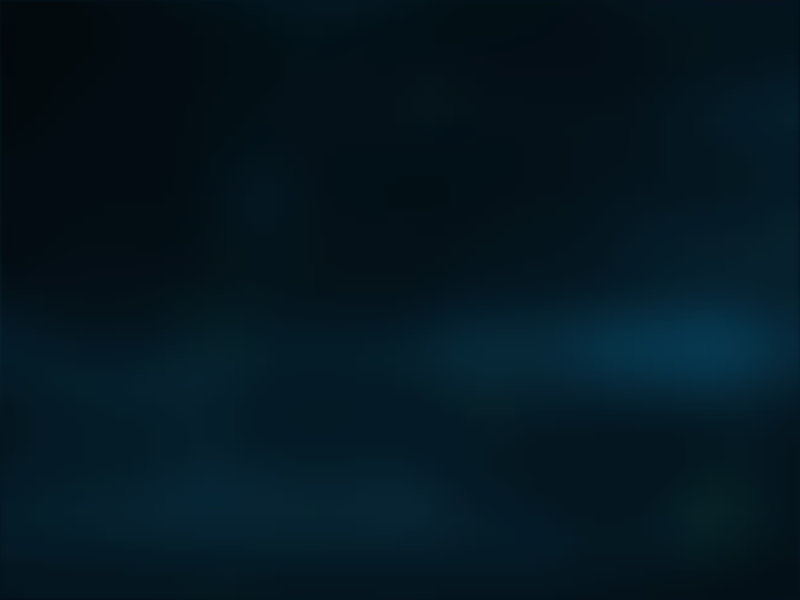
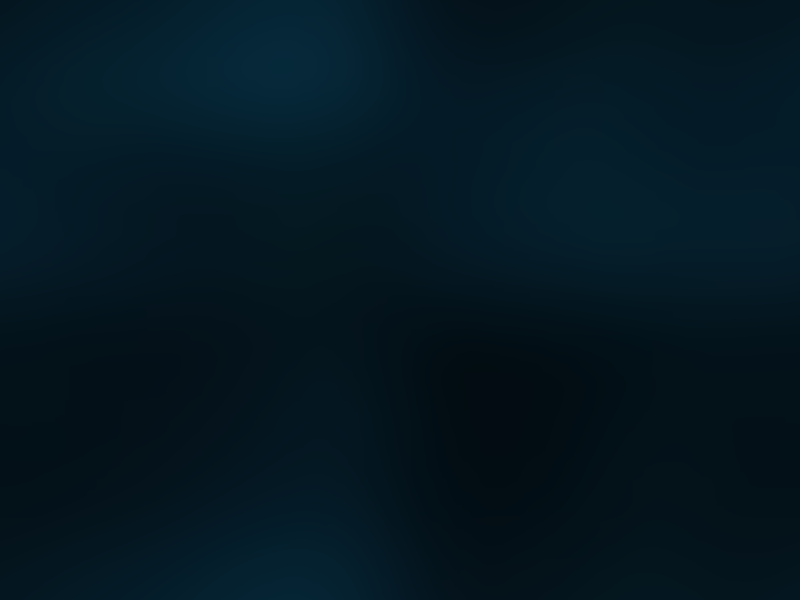
Implemented mails_list in admin panel

Changed region(s): [[0.0, 0.0, 0.4688, 0.27], [0.5312, 0.48, 1.0, 0.69]]

diff --git a/html/admin/css/fhq.admin.css b/html/admin/css/fhq.admin.css
@@ -9,7 +9,7 @@ body {
 	background-color: #041119;
 	background-image: url("../img/background.png");
 	background-position: center;
-	background-repeat: no-repeat;
+	background-repeat: repeat;
 	background-size: 100% 100%;
 	color: #3c8dbc;
 }
@@ -39,12 +39,7 @@ body {
 .fixed .right-side {
   padding-top: 50px;
 }
-@media (max-width: 767px) {
-  .fixed .content-wrapper,
-  .fixed .right-side {
-    padding-top: 100px;
-  }
-}
+
 .fixed.layout-boxed .wrapper {
   max-width: 100%;
 }
@@ -75,42 +70,14 @@ body {
   left: 0;
   padding-top: 50px;
   min-height: 100%;
-  width: 230px;
+  width: 130px;
   z-index: 810;
   -webkit-transition: -webkit-transform 0.3s ease-in-out, width 0.3s ease-in-out;
   -moz-transition: -moz-transform 0.3s ease-in-out, width 0.3s ease-in-out;
   -o-transition: -o-transform 0.3s ease-in-out, width 0.3s ease-in-out;
   transition: transform 0.3s ease-in-out, width 0.3s ease-in-out;
 }
-@media (max-width: 767px) {
-  .main-sidebar {
-    padding-top: 100px;
-  }
-}
-@media (max-width: 767px) {
-  .main-sidebar {
-    -webkit-transform: translate(-230px, 0);
-    -ms-transform: translate(-230px, 0);
-    -o-transform: translate(-230px, 0);
-    transform: translate(-230px, 0);
-  }
-}
-@media (min-width: 768px) {
-  .sidebar-collapse .main-sidebar {
-    -webkit-transform: translate(-230px, 0);
-    -ms-transform: translate(-230px, 0);
-    -o-transform: translate(-230px, 0);
-    transform: translate(-230px, 0);
-  }
-}
-@media (max-width: 767px) {
-  .sidebar-open .main-sidebar {
-    -webkit-transform: translate(0, 0);
-    -ms-transform: translate(0, 0);
-    -o-transform: translate(0, 0);
-    transform: translate(0, 0);
-  }
-}
+
 .sidebar {
   padding-bottom: 10px;
 }
@@ -154,9 +121,9 @@ a:focus {
  * ----------------------
  */
 .main-header {
-  position: relative;
-  max-height: 100px;
-  z-index: 1030;
+	position: fixed;
+	max-height: 100px;
+	z-index: 1030;
 }
 .main-header .navbar {
   -webkit-transition: margin-left 0.3s ease-in-out;
@@ -194,25 +161,7 @@ a:focus {
 .main-header .navbar-right {
   float: right;
 }
-@media (max-width: 991px) {
-  .main-header .navbar-custom-menu a,
-  .main-header .navbar-right a {
-    color: inherit;
-    background: transparent;
-  }
-}
-@media (max-width: 767px) {
-  .main-header .navbar-right {
-    float: none;
-  }
-  .navbar-collapse .main-header .navbar-right {
-    margin: 7.5px -15px;
-  }
-  .main-header .navbar-right > li {
-    color: inherit;
-    border: 0;
-  }
-}
+
 .main-header .sidebar-toggle {
   float: left;
   background-color: transparent;
@@ -255,7 +204,7 @@ a:focus {
   font-size: 20px;
   line-height: 50px;
   text-align: center;
-  width: 230px;
+  width: 130px;
   font-family: "Helvetica Neue", Helvetica, Arial, sans-serif;
   padding: 0 15px;
   font-weight: 300;
@@ -305,67 +254,6 @@ a:focus {
 }
 .content-header > .breadcrumb > li + li:before {
   content: '>\00a0';
-}
-@media (max-width: 991px) {
-  .content-header > .breadcrumb {
-    position: relative;
-    margin-top: 5px;
-    top: 0;
-    right: 0;
-    float: none;
-    background: #d2d6de;
-    padding-left: 10px;
-  }
-  .content-header > .breadcrumb li:before {
-    color: #97a0b3;
-  }
-}
-.navbar-toggle {
-  color: #fff;
-  border: 0;
-  margin: 0;
-  padding: 15px 15px;
-}
-@media (max-width: 991px) {
-  .navbar-custom-menu .navbar-nav > li {
-    float: left;
-  }
-  .navbar-custom-menu .navbar-nav {
-    margin: 0;
-    float: left;
-  }
-  .navbar-custom-menu .navbar-nav > li > a {
-    padding-top: 15px;
-    padding-bottom: 15px;
-    line-height: 20px;
-  }
-}
-@media (max-width: 767px) {
-  .main-header {
-    position: relative;
-  }
-  .main-header .logo,
-  .main-header .navbar {
-    width: 100%;
-    float: none;
-  }
-  .main-header .navbar {
-    margin: 0;
-  }
-  .main-header .navbar-custom-menu {
-    float: right;
-  }
-}
-@media (max-width: 991px) {
-  .navbar-collapse.pull-left {
-    float: none !important;
-  }
-  .navbar-collapse.pull-left + .navbar-custom-menu {
-    display: block;
-    position: absolute;
-    top: 0;
-    right: 40px;
-  }
 }
 
 
@@ -564,33 +452,12 @@ a:focus {
   -moz-transition: -moz-transform 0.3s ease-in-out, margin 0.3s ease-in-out;
   -o-transition: -o-transform 0.3s ease-in-out, margin 0.3s ease-in-out;
   transition: transform 0.3s ease-in-out, margin 0.3s ease-in-out;
-  margin-left: 230px;
+  margin-left: 130px;
   z-index: 820;
 }
 .layout-top-nav .content-wrapper,
 .layout-top-nav .main-footer {
   margin-left: 0;
-}
-@media (max-width: 767px) {
-  .content-wrapper,
-  .main-footer {
-    margin-left: 0;
-  }
-}
-@media (min-width: 768px) {
-  .sidebar-collapse .content-wrapper,
-  .sidebar-collapse .main-footer {
-    margin-left: 0;
-  }
-}
-@media (max-width: 767px) {
-  .sidebar-open .content-wrapper,
-  .sidebar-open .main-footer {
-    -webkit-transform: translate(230px, 0);
-    -ms-transform: translate(230px, 0);
-    -o-transform: translate(230px, 0);
-    transform: translate(230px, 0);
-  }
 }
 
 .form-control {
@@ -645,6 +512,7 @@ input:-webkit-autofill, textarea:-webkit-autofill, select:-webkit-autofill {
 
 .main-sidebar{
 	/*border-right: 1px solid #3c8dbc;*/
+	position: fixed;
 	box-shadow: 0 0 10px rgba(60,141,188,0.5);
 	background-color: rgba(60,141,188,0.1);
 }
@@ -715,3 +583,6 @@ input:-webkit-autofill, textarea:-webkit-autofill, select:-webkit-autofill {
 	transform: scale(1.1);
 }
 
+pre {
+	color: inherit !important;
+}

diff --git a/html/admin/js/fhq.admin.js b/html/admin/js/fhq.admin.js
@@ -239,9 +239,66 @@ fhq.pages['users'] = function(){
 	})
 }
 
+fhq.pages['mails'] = function(){
+	$('#page_name').html('Mails');
+	$('#page_content').html('');
+	fhq.showLoader();
+	
+	var onpage = 5;
+	if(fhq.containsPageParam("onpage")){
+		onpage = parseInt(fhq.pageParams['onpage'], 10);
+	}
+
+	var page = 0;
+	if(fhq.containsPageParam("page")){
+		page = parseInt(fhq.pageParams['page'], 10);
+	}
+	
+	var el = $("#page_content");
+	el.html('Loading...')
+	
+	window.fhq.changeLocationState({'mails': '', 'onpage': onpage, 'page': page});
+
+	fhq.ws.mails_list({'onpage': onpage, 'page': page}).done(function(r){
+		fhq.hideLoader();
+		console.log(r);
+		el.html('');
+		el.append(fhq.paginator(0, r.count, r.onpage, r.page));
+		el.append('<table class="table table-striped">'
+			+ '		<thead>'
+			+ '			<tr>'
+			+ '				<th>#</th>'
+			+ '				<th>To Email <br> Subject</th>'
+			+ '				<th>Message</th>'
+			+ '				<th>Datetime <br> Status <br> Priority </th>'
+			+ '			</tr>'
+			+ '		</thead>'
+			+ '		<tbody id="users_list">'
+			+ '		</tbody>'
+			+ '</table>'
+		)
+		for(var i in r.data){
+			var em = r.data[i];
+			$('#users_list').append('<tr>'
+				+ '	<td>' + em.id + '</td>'
+				+ '	<td><p>' + em.email + '</p><p>'  + em.subject + '</p></td>'
+				+ '	<td><pre>' + em.message + '</pre></td>'
+				+ '	<td><p>' + em.dt + '</p><p>Status: ' + em.status + '</p><p>Priority: ' + em.priority + ' </p></td>'
+				+ '</tr>'
+			)
+		}
+	}).fail(function(r){
+		fhq.hideLoader();
+		console.error(r);
+		el.append(r.error);
+	})
+}
+
 
 fhq.pages['quests'] = function(){
 	$('#page_name').html('Quests');
 	$('#page_content').html('');
 
 }
+
+

diff --git a/html/admin/js/fhq.ws.admin.js b/html/admin/js/fhq.ws.admin.js
@@ -89,10 +89,7 @@ window.fhq.ws.initWebsocket = function(){
 
 	window.fhq.ws.socket.onclose = function(event) {
 		console.log('Closed');
-		
-		if(fhq.ui && fhq.ui.onwsclose){
-			fhq.ui.onwsclose();
-		}
+		fhq.showLoader();
 		
 		if (event.wasClean) {
 			fhq.ws.setWSState("CLOSED");
@@ -240,6 +237,12 @@ fhq.ws.login = function(params){
 fhq.ws.users = function(params){
 	params = params || {};
 	params.cmd = 'users';
+	return fhq.ws.send(params);
+}
+
+fhq.ws.mails_list = function(params){
+	params = params || {};
+	params.cmd = 'mails_list';
 	return fhq.ws.send(params);
 }
 

diff --git a/html/admin/index.html b/html/admin/index.html
@@ -30,6 +30,7 @@
       <ul class="sidebar-menu" data-widget="tree">
         <li><a onclick="" href="./?users=">Users</a></li>
         <li><a onclick="" href="./?quests=">Quests</a></li>
+        <li><a onclick="" href="./?mails=">Mails</a></li>
         <li><a onclick="fhq.logout()" href="">Logout</a></li>
 
       </ul>
